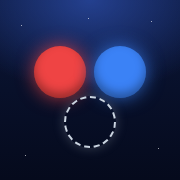
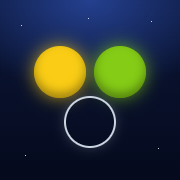
改色：趨近改黃色、遠離改草綠色、平安改實線圓框；更新圖示

diff --git a/index.html b/index.html
@@ -75,8 +75,8 @@
     @keyframes twinkle { 0%, 100% { opacity: 1; } 50% { opacity: 0.45; } }
 
     /* 記憶球發光 */
-    .glow-red   { box-shadow: 0 0 15px rgba(239, 68, 68, 0.6), inset 0 -4px 8px rgba(0, 0, 0, 0.4); }
-    .glow-blue  { box-shadow: 0 0 15px rgba(59, 130, 246, 0.6), inset 0 -4px 8px rgba(0, 0, 0, 0.4); }
+    .glow-yellow { box-shadow: 0 0 15px rgba(250, 204, 21, 0.6), inset 0 -4px 8px rgba(0, 0, 0, 0.4); }
+    .glow-green  { box-shadow: 0 0 15px rgba(132, 204, 22, 0.6), inset 0 -4px 8px rgba(0, 0, 0, 0.4); }
     .glow-faded { box-shadow: 0 0 12px rgba(203, 213, 225, 0.18); }
 
     @media (prefers-reduced-motion: reduce) {
@@ -133,7 +133,7 @@
       <div id="memory-container" class="grid grid-cols-4 gap-2 sm:gap-3"></div>
       <div id="empty-state" class="hidden text-center py-12 text-slate-300 space-y-3">
         <div class="w-16 h-16 mx-auto rounded-full bg-night-900/70 border border-night-700 flex items-center justify-center text-slate-400">
-          <i data-lucide="circle-dashed" class="w-8 h-8"></i>
+          <i data-lucide="circle" class="w-8 h-8"></i>
         </div>
         <p class="text-sm">這個分類目前還沒有記憶球</p>
         <p class="text-xs text-slate-400">按右下角的 ＋ 開始記錄</p>
@@ -223,30 +223,30 @@
     const ZONES = {
       approach: {
         name: '趨近', def: '緊',
-        orbClass: 'bg-red-500 text-slate-950', glowClass: 'glow-red',
-        dotClass: 'bg-red-500',
-        textClass: 'text-red-300',
-        tabActive: 'bg-red-500 text-slate-950 shadow shadow-red-500/30',
-        badge: 'bg-red-500/20 text-red-200 border-red-500/40',
-        pickActive: 'bg-red-500/20 text-red-200 border-red-500/50 ring-2 ring-red-500/60'
+        orbClass: 'bg-yellow-500 text-slate-950', glowClass: 'glow-yellow',
+        dotClass: 'bg-yellow-500',
+        textClass: 'text-yellow-300',
+        tabActive: 'bg-yellow-500 text-slate-950 shadow shadow-yellow-500/30',
+        badge: 'bg-yellow-500/20 text-yellow-200 border-yellow-500/40',
+        pickActive: 'bg-yellow-500/20 text-yellow-200 border-yellow-500/50 ring-2 ring-yellow-500/60'
       },
       distance: {
         name: '遠離', def: '有距離、放鬆',
-        orbClass: 'bg-blue-500 text-slate-950', glowClass: 'glow-blue',
-        dotClass: 'bg-blue-500',
-        textClass: 'text-blue-300',
-        tabActive: 'bg-blue-500 text-slate-950 shadow shadow-blue-500/30',
-        badge: 'bg-blue-500/20 text-blue-200 border-blue-500/40',
-        pickActive: 'bg-blue-500/20 text-blue-200 border-blue-500/50 ring-2 ring-blue-500/60'
+        orbClass: 'bg-lime-500 text-slate-950', glowClass: 'glow-green',
+        dotClass: 'bg-lime-500',
+        textClass: 'text-lime-300',
+        tabActive: 'bg-lime-500 text-slate-950 shadow shadow-lime-500/30',
+        badge: 'bg-lime-500/20 text-lime-200 border-lime-500/40',
+        pickActive: 'bg-lime-500/20 text-lime-200 border-lime-500/50 ring-2 ring-lime-500/60'
       },
       peace: {
         name: '平安', def: '不會不見，也不會變出來',
-        orbClass: 'bg-transparent border-2 border-dashed border-slate-300/80 text-slate-200', glowClass: 'glow-faded',
-        dotClass: 'border-2 border-dashed border-slate-300',
+        orbClass: 'bg-transparent border-2 border-slate-300/80 text-slate-200', glowClass: 'glow-faded',
+        dotClass: 'border-2 border-slate-300',
         textClass: 'text-slate-200',
-        tabActive: 'bg-transparent text-slate-100 border-2 border-dashed border-slate-300',
-        badge: 'bg-transparent text-slate-200 border-slate-300/60 border-dashed',
-        pickActive: 'bg-slate-300/10 text-slate-100 border-slate-300 border-dashed ring-2 ring-slate-300/40'
+        tabActive: 'bg-transparent text-slate-100 border-2 border-slate-300',
+        badge: 'bg-transparent text-slate-200 border-slate-300/60',
+        pickActive: 'bg-slate-300/10 text-slate-100 border-slate-300 ring-2 ring-slate-300/40'
       }
     };
     const DEFAULT_ZONE = 'approach';

diff --git a/sw.js b/sw.js
@@ -1,7 +1,7 @@
 // 諸行漸次止息 service worker
 // 只快取 App 自己的檔案，讓手機離線也能打開。
 // 不處理、不傳送任何記憶資料（記憶只在 localStorage）。
-const CACHE = 'zhuxing-v1';
+const CACHE = 'zhuxing-v2';
 const FILES = [
   './',
   './index.html',
